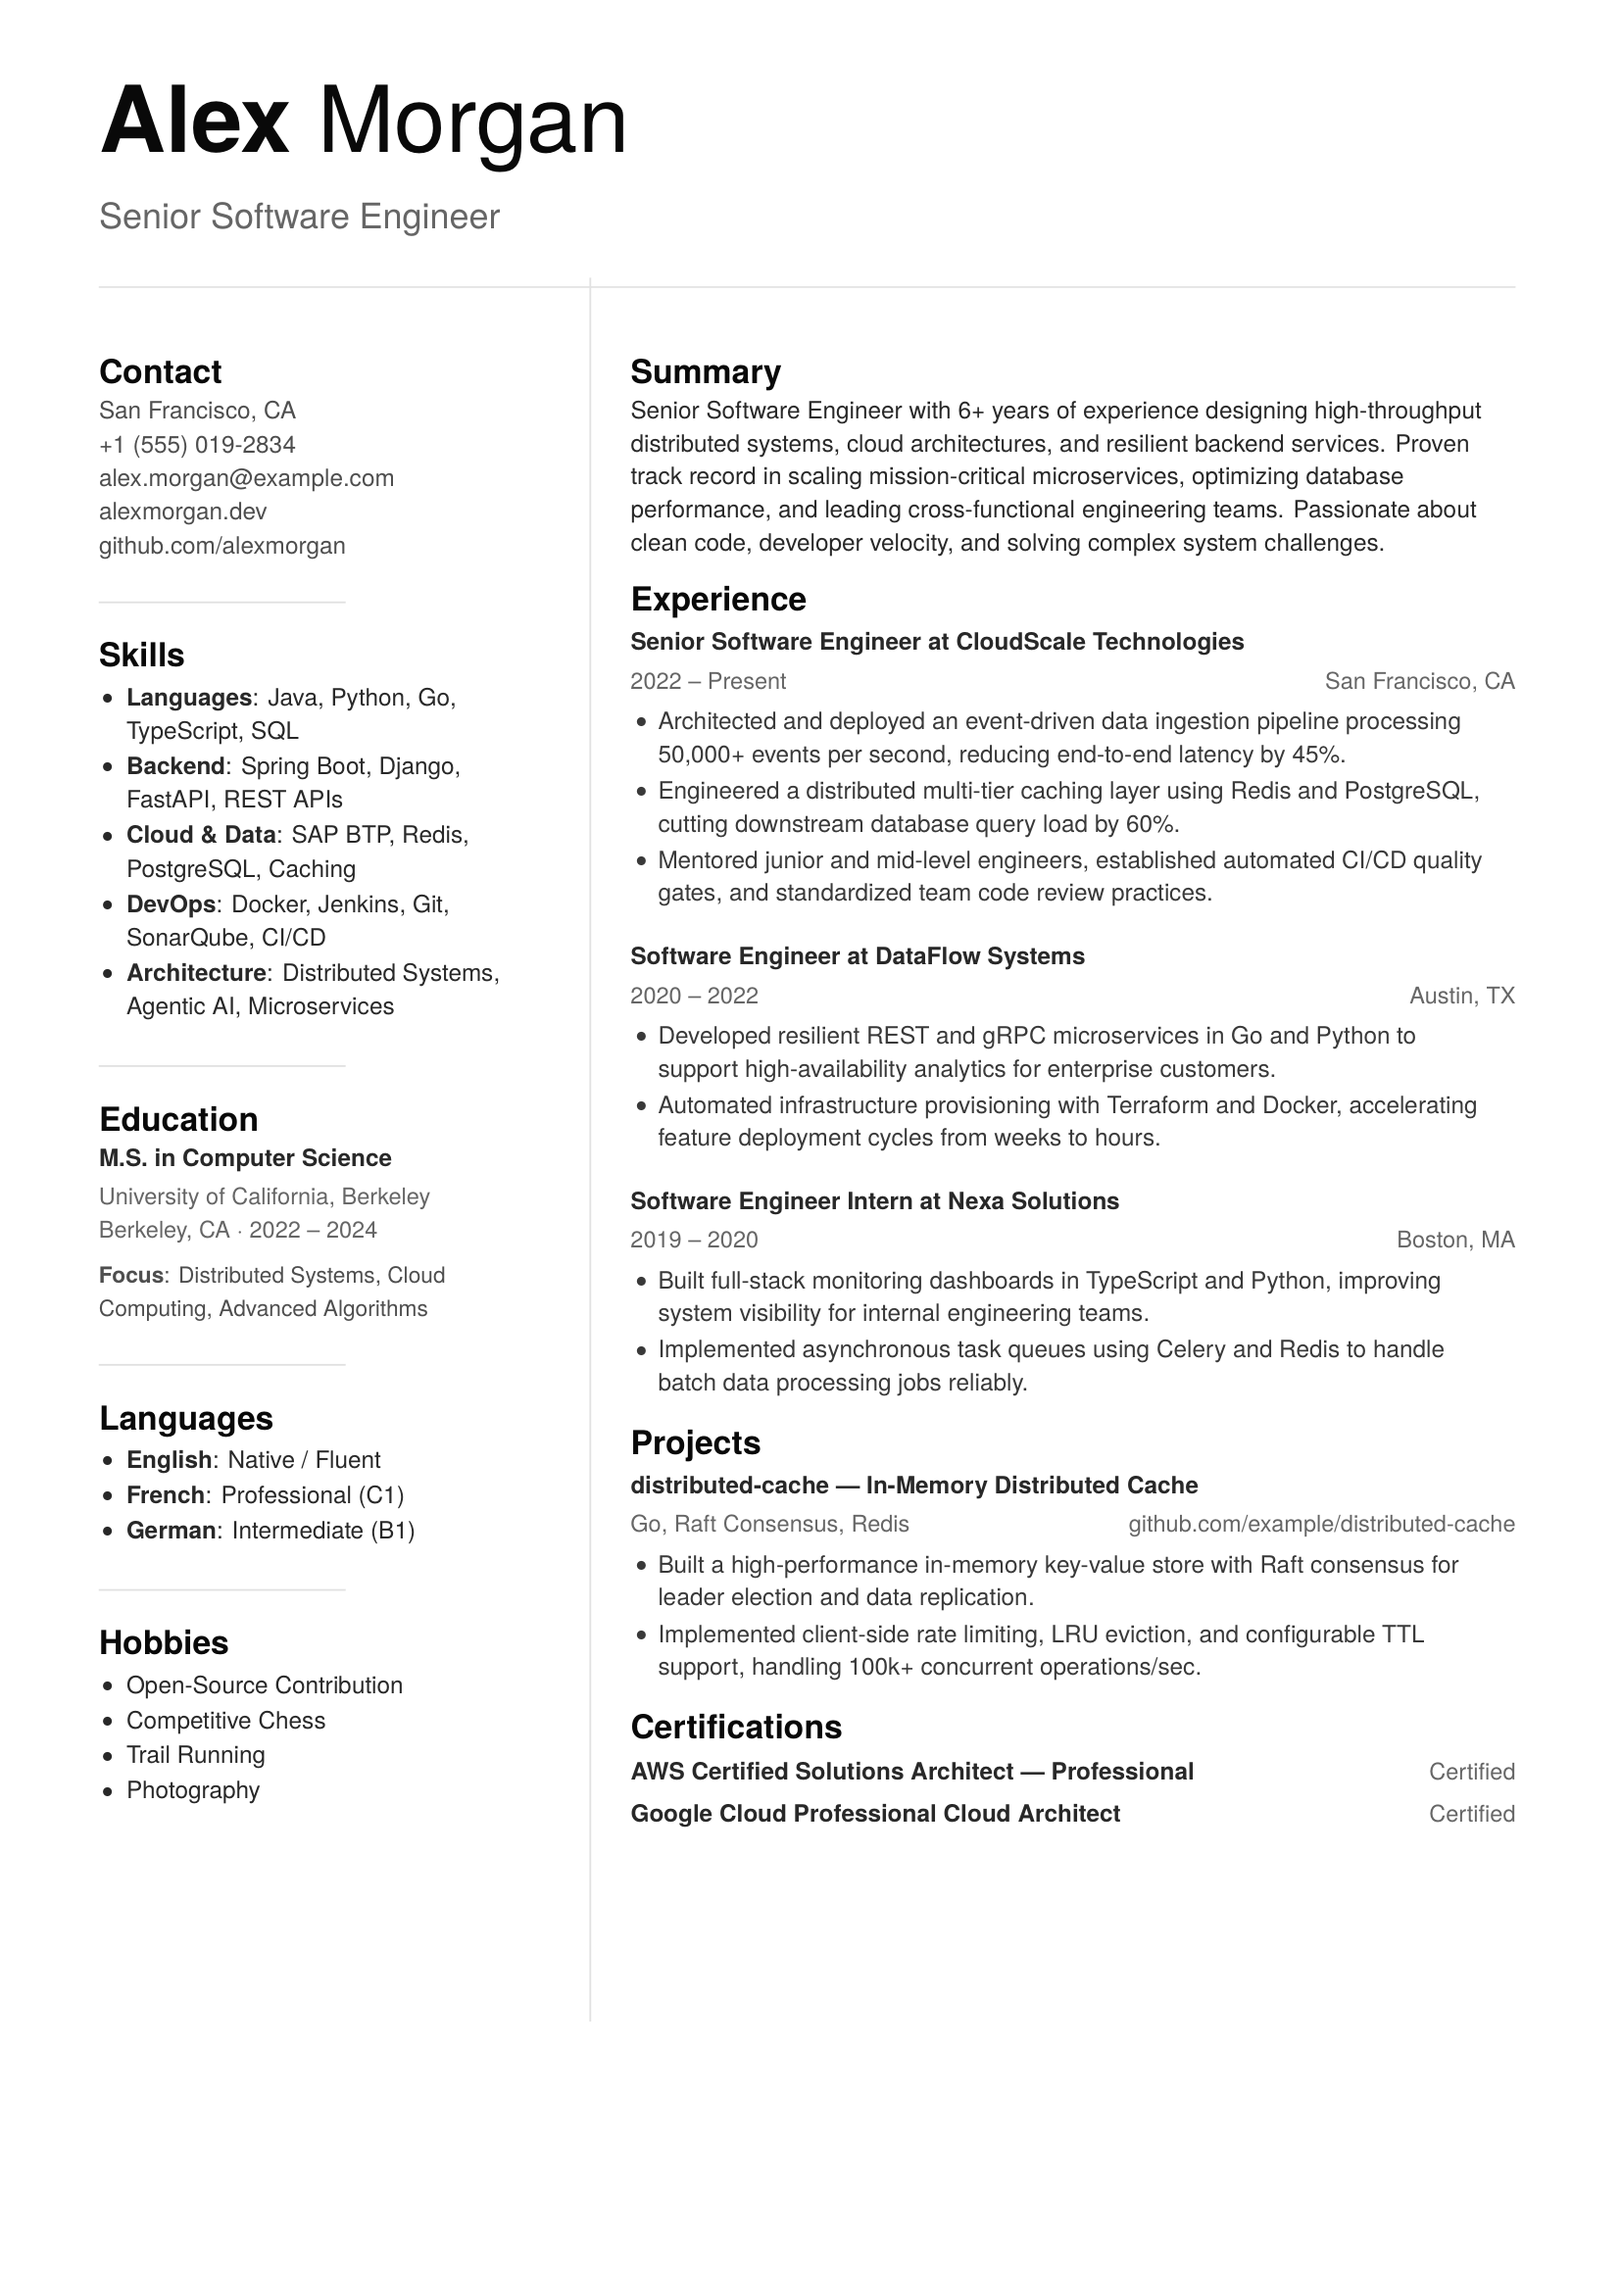
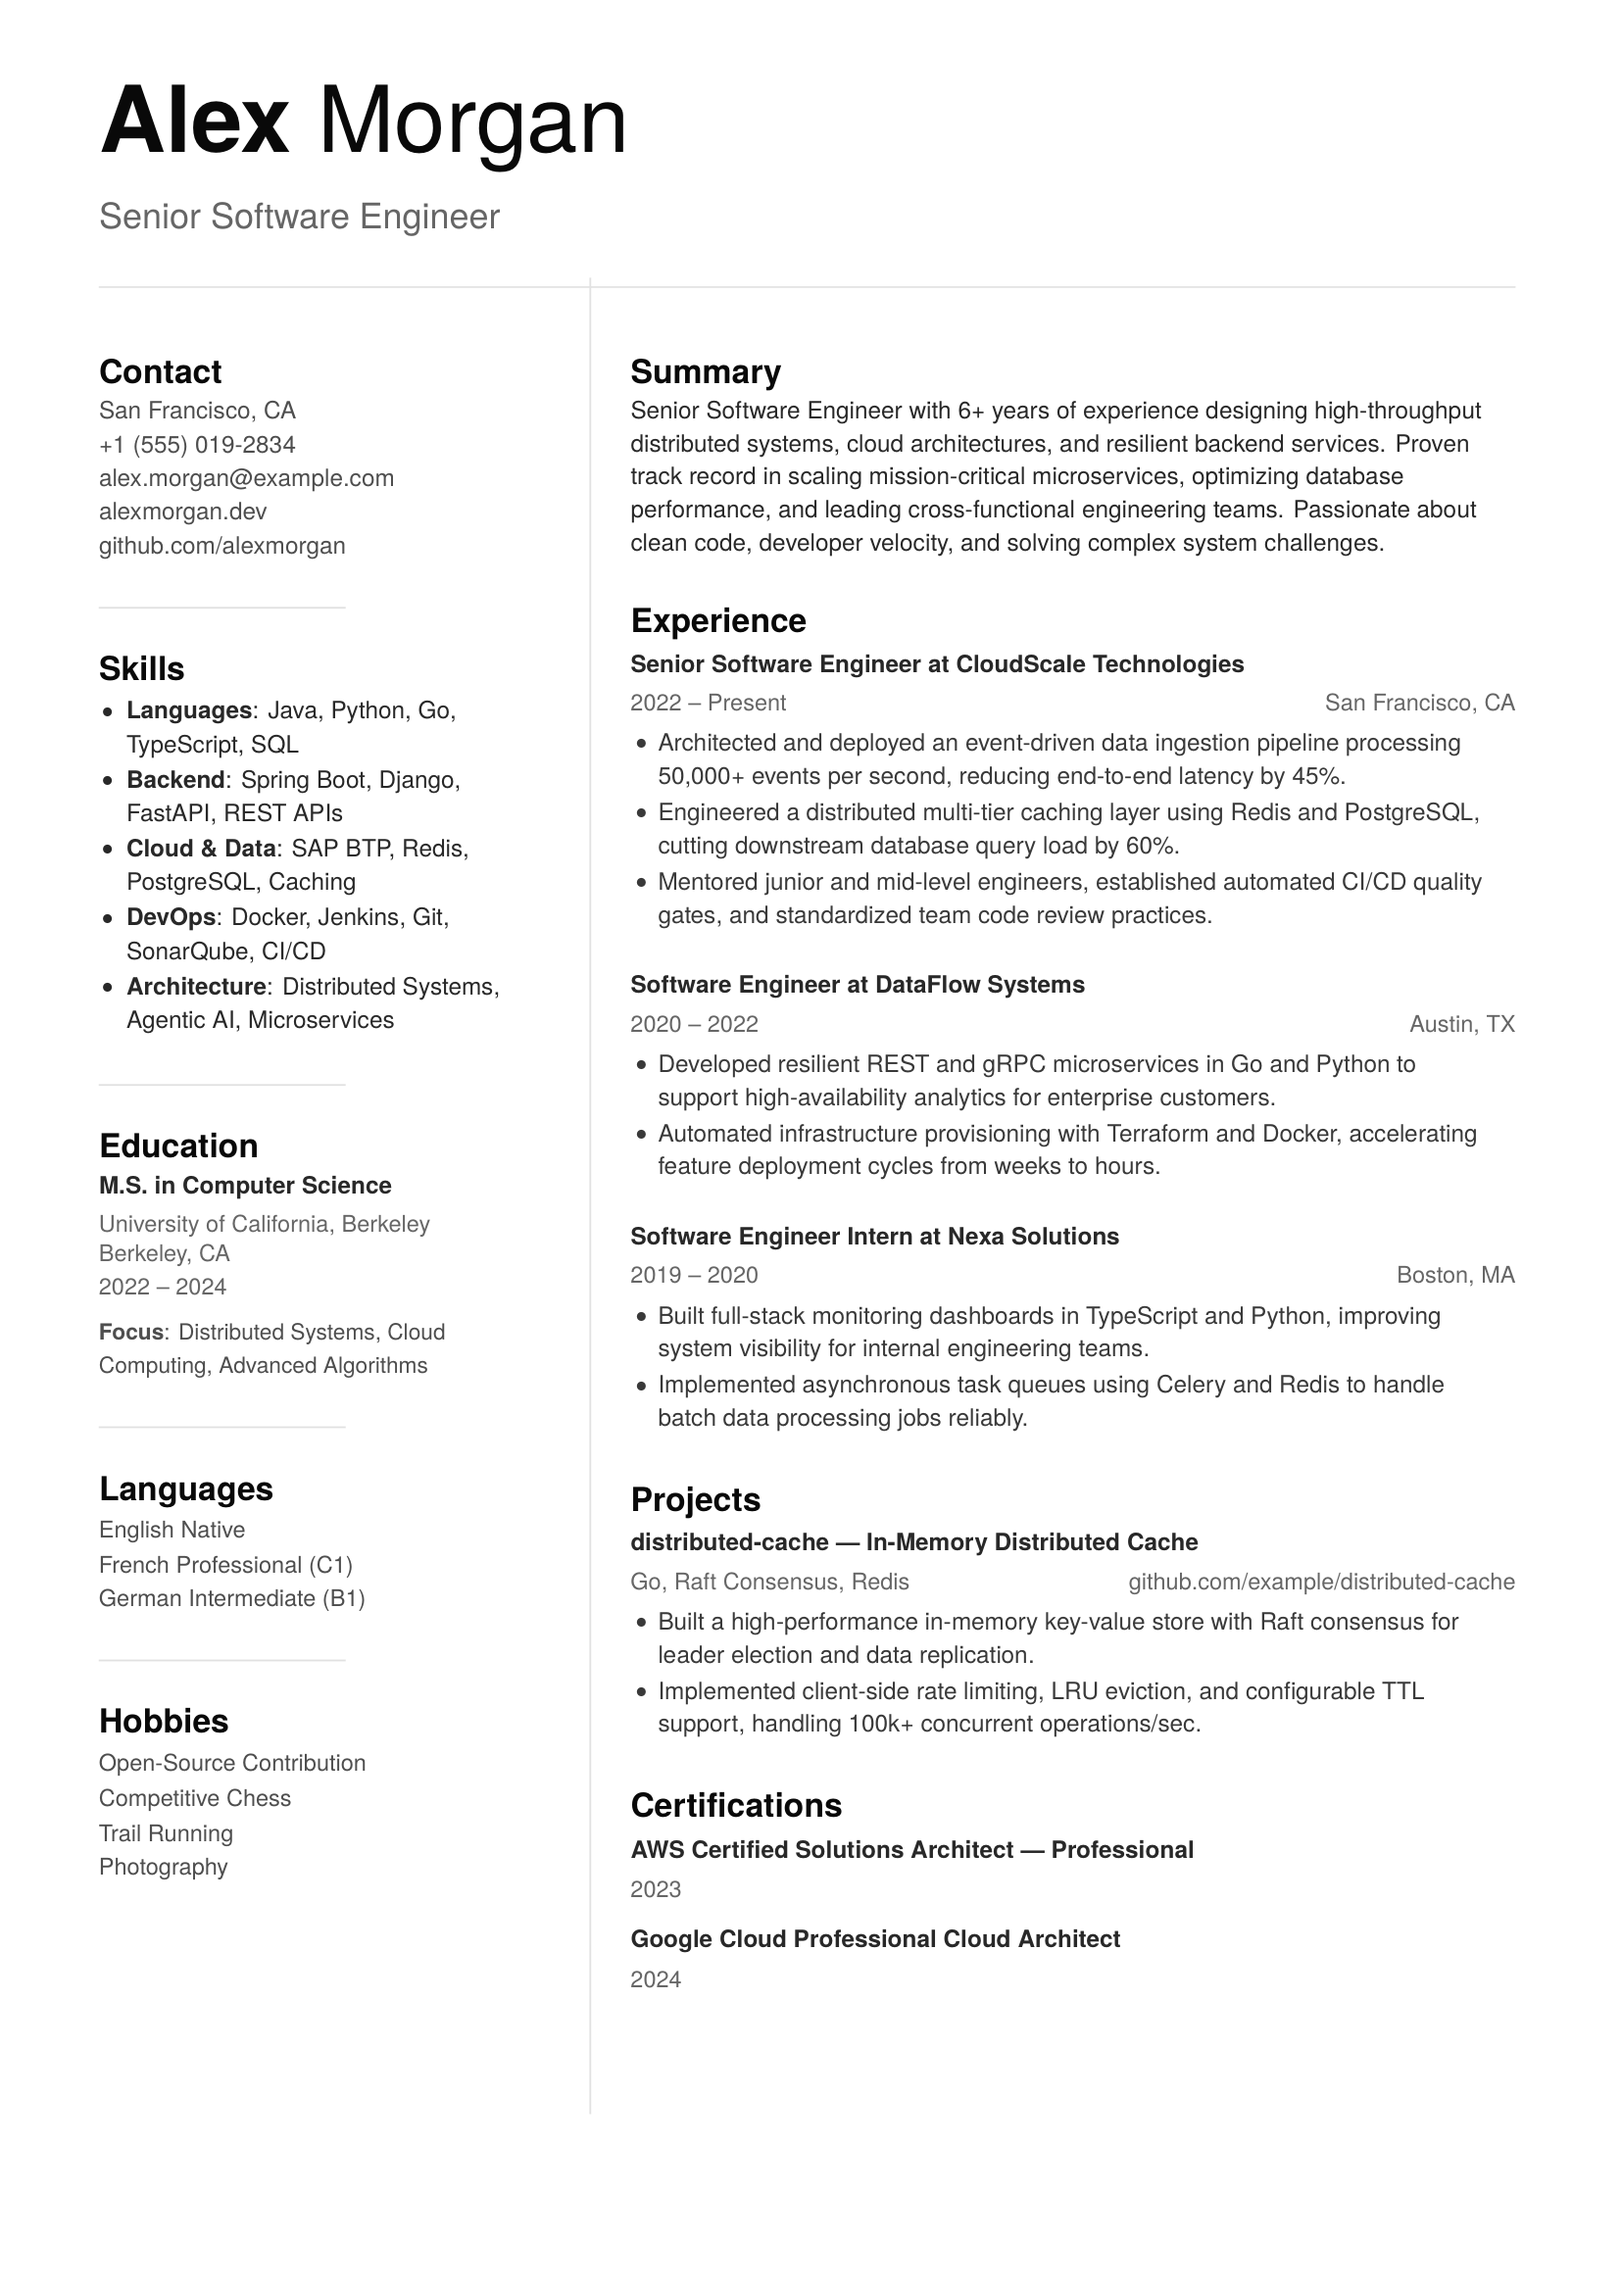
refine: improve section whitespace, certification layout, and unbulleted lists

diff --git a/data/experience.tex b/data/experience.tex
@@ -6,13 +6,13 @@
     \item Mentored junior and mid-level engineers, established automated CI/CD quality gates, and standardized team code review practices.
 }
 
-\vspace{10.0pt}%
+\vspace{12.5pt}%
 \experienceitem{Software Engineer at DataFlow Systems}{2020 -- 2022 \hfill Austin, TX}{%
     \item Developed resilient REST and gRPC microservices in Go and Python to support high-availability analytics for enterprise customers.
     \item Automated infrastructure provisioning with Terraform and Docker, accelerating feature deployment cycles from weeks to hours.
 }
 
-\vspace{10.0pt}%
+\vspace{12.5pt}%
 \experienceitem{Software Engineer Intern at Nexa Solutions}{2019 -- 2020 \hfill Boston, MA}{%
     \item Built full-stack monitoring dashboards in TypeScript and Python, improving system visibility for internal engineering teams.
     \item Implemented asynchronous task queues using Celery and Redis to handle batch data processing jobs reliably.

diff --git a/data/hobbies.tex b/data/hobbies.tex
@@ -1,16 +1,14 @@
 \sectiontitle{Languages}
-\begin{skillsbullets}
-    \item \textbf{English}: Native / Fluent
-    \item \textbf{French}: Professional (C1)
-    \item \textbf{German}: Intermediate (B1)
-\end{skillsbullets}
+{\fontsize{8.5pt}{13.0pt}\selectfont\color{textmuted}%
+English Native\\
+French Professional (C1)\\
+German Intermediate (B1)}\par
 
 \resumedivider
 
 \sectiontitle{Hobbies}
-\begin{skillsbullets}
-    \item Open-Source Contribution
-    \item Competitive Chess
-    \item Trail Running
-    \item Photography
-\end{skillsbullets}
+{\fontsize{8.5pt}{13.0pt}\selectfont\color{textmuted}%
+Open-Source Contribution\\
+Competitive Chess\\
+Trail Running\\
+Photography}\par

diff --git a/data/education.tex b/data/education.tex
@@ -1,5 +1,5 @@
 \sectiontitle{Education}
-\educationitem{M.S. in Computer Science}{University of California, Berkeley\\Berkeley, CA $\cdot$ 2022 -- 2024}
+\educationitem{M.S. in Computer Science}{University of California, Berkeley\\Berkeley, CA\\2022 -- 2024}
 \vspace{4.0pt}%
 {\fontsize{8.2pt}{11.0pt}\selectfont\color{textmuted}%
 \textbf{Focus}: Distributed Systems, Cloud Computing, Advanced Algorithms}\par

diff --git a/data/certifications.tex b/data/certifications.tex
@@ -1,6 +1,6 @@
 \sectiontitle{Certifications}
 \vspace{2.0pt}%
-\certificationitem{AWS Certified Solutions Architect --- Professional}{Certified}
+\certificationitem{AWS Certified Solutions Architect --- Professional}{2023}
 
-\vspace{3.5pt}%
-\certificationitem{Google Cloud Professional Cloud Architect}{Certified}
+\vspace{6.0pt}%
+\certificationitem{Google Cloud Professional Cloud Architect}{2024}

diff --git a/main.tex b/main.tex
@@ -22,13 +22,13 @@
     \raggedright%
     \input{data/summary.tex}\par%
     
-    \vspace{10.0pt}%
+    \vspace{18.0pt}%
     \input{data/experience.tex}\par%
     
-    \vspace{10.0pt}%
+    \vspace{18.0pt}%
     \input{data/projects.tex}\par%
     
-    \vspace{10.0pt}%
+    \vspace{18.0pt}%
     \input{data/certifications.tex}\par%
 \end{minipage}
 
